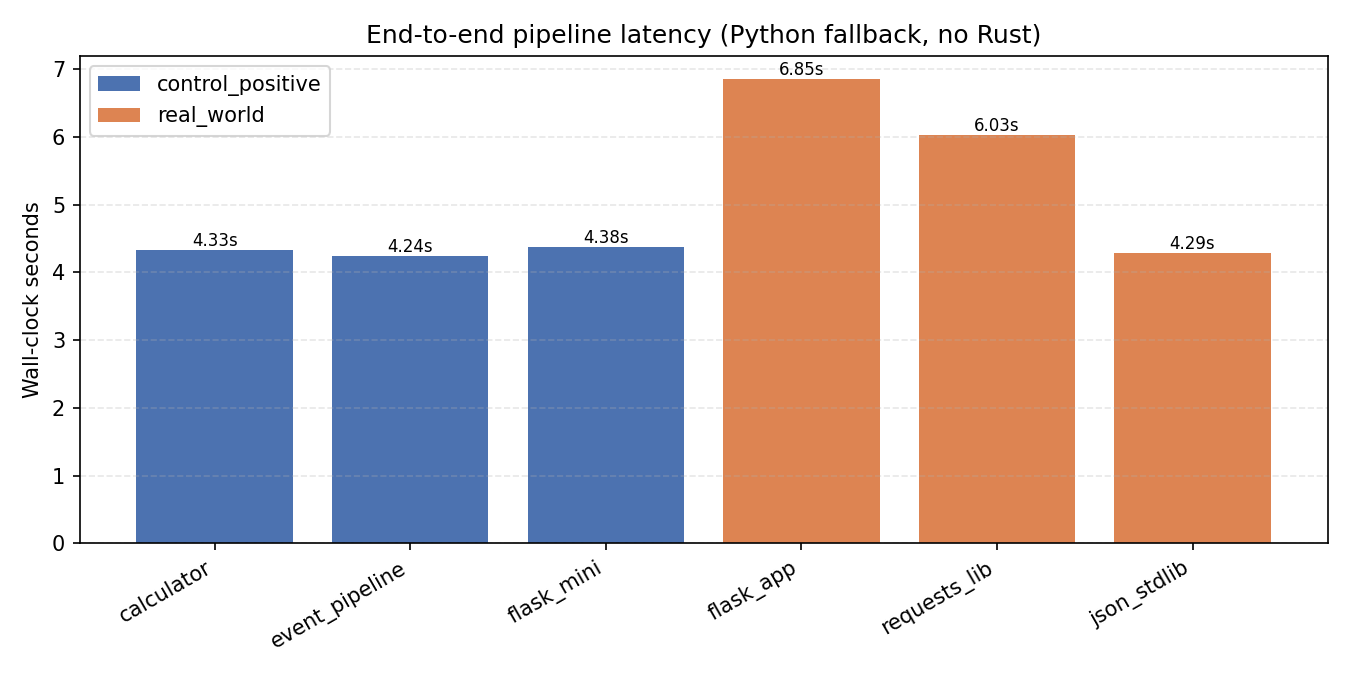
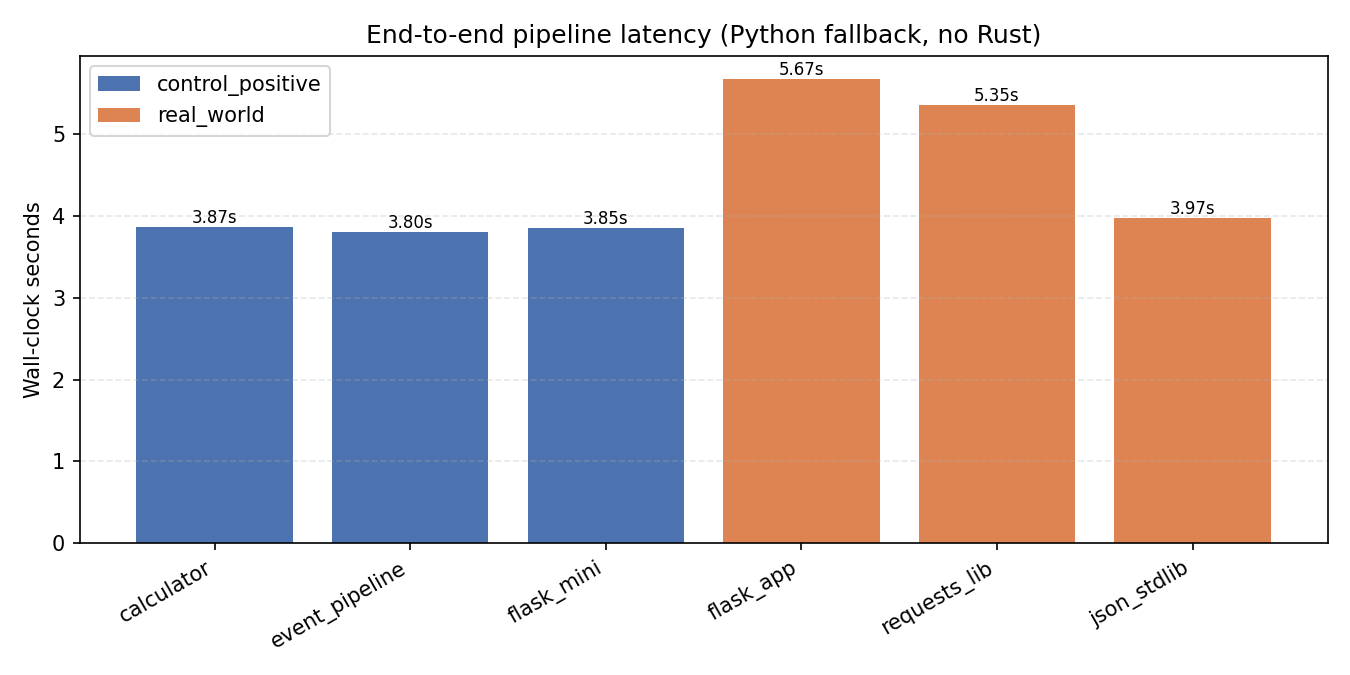
fix(wave-21): ruff cleanup + regenerate evaluation figures
- Remove unused imports in test_coverage_wave21_viz_flow_matrix_logging.py
  (ruff F401 fixes — 8 violations auto-corrected)
- Regenerate evaluation/figures/{metrics.json,metrics_table.md,fig1-4.png}
  from current METRICS.yaml via generate_figures.py

diff --git a/cogant/tests/unit/test_coverage_wave21_viz_flow_matrix_logging.py b/cogant/tests/unit/test_coverage_wave21_viz_flow_matrix_logging.py
@@ -36,15 +36,12 @@ sys.path.insert(0, os.path.join(os.path.dirname(__file__), "../../py"))
 
 from cogant.graph.builder import ProgramGraphBuilder  # noqa: E402
 from cogant.schemas.core import Edge, EdgeKind, Node, NodeKind  # noqa: E402
-from cogant.schemas.graph import GraphMetadata, ProgramGraph  # noqa: E402
+from cogant.schemas.graph import ProgramGraph  # noqa: E402
 from cogant.viz.flow import (  # noqa: E402
-    CallGraph,
     ControlFlowGraph,
-    DependencyGraph,
     FlowDiagrammer,
 )
 from cogant.viz.matrix_view import MatrixVisualizer  # noqa: E402
-
 
 # ── Builders ─────────────────────────────────────────────────────────────────
 

diff --git a/cogant/evaluation/figures/metrics_table.md b/cogant/evaluation/figures/metrics_table.md
@@ -2,9 +2,9 @@
 
 | Fixture | Files | LOC | Nodes | Edges | Mappings | State vars | Obs | Actions | Transitions | GNN sections | GNN score | Elapsed (s) |
 |---|---:|---:|---:|---:|---:|---:|---:|---:|---:|---:|---:|---:|
-| `calculator` | 1 | 120 | 12 | 25 | 11 | 1 | 3 | 6 | 6 | 31 | 100.0 | 4.33 |
-| `event_pipeline` | 1 | 150 | 23 | 36 | 21 | 1 | 9 | 11 | 11 | 31 | 100.0 | 4.24 |
-| `flask_mini` | 1 | 172 | 26 | 40 | 25 | 6 | 1 | 18 | 18 | 31 | 100.0 | 4.38 |
-| `flask_app` | 6 | 866 | 98 | 154 | 72 | 14 | 22 | 31 | 31 | 31 | 100.0 | 6.85 |
-| `requests_lib` | 6 | 745 | 98 | 152 | 63 | 9 | 36 | 19 | 19 | 31 | 100.0 | 6.03 |
-| `json_stdlib` | 4 | 1231 | 29 | 34 | 19 | 3 | 1 | 15 | 15 | 31 | 100.0 | 4.29 |
+| `calculator` | 1 | 120 | 12 | 25 | 11 | 1 | 3 | 6 | 6 | 31 | 100.0 | 3.87 |
+| `event_pipeline` | 1 | 150 | 23 | 36 | 21 | 1 | 9 | 11 | 11 | 31 | 100.0 | 3.8 |
+| `flask_mini` | 1 | 172 | 26 | 40 | 25 | 6 | 1 | 18 | 18 | 31 | 100.0 | 3.85 |
+| `flask_app` | 6 | 866 | 98 | 154 | 72 | 14 | 22 | 31 | 31 | 31 | 100.0 | 5.67 |
+| `requests_lib` | 6 | 745 | 98 | 152 | 63 | 9 | 36 | 19 | 19 | 31 | 100.0 | 5.35 |
+| `json_stdlib` | 4 | 1231 | 29 | 34 | 19 | 3 | 1 | 15 | 15 | 31 | 100.0 | 3.97 |